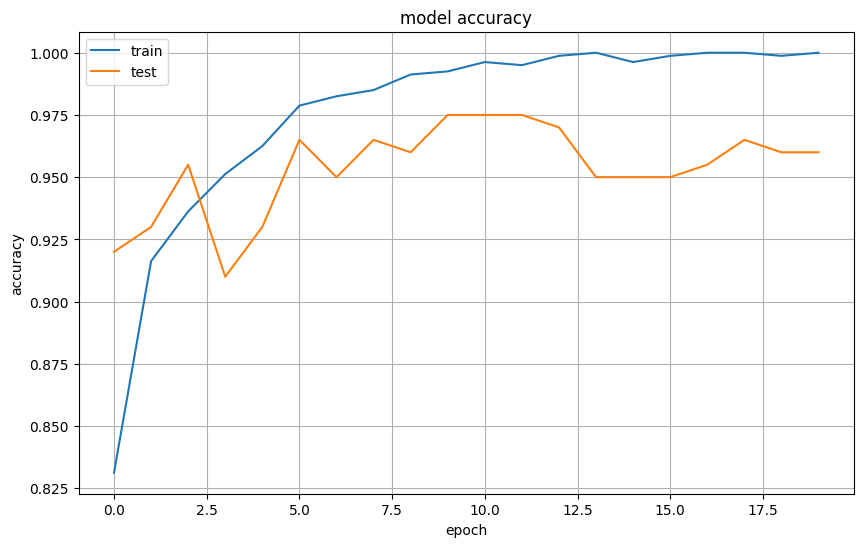
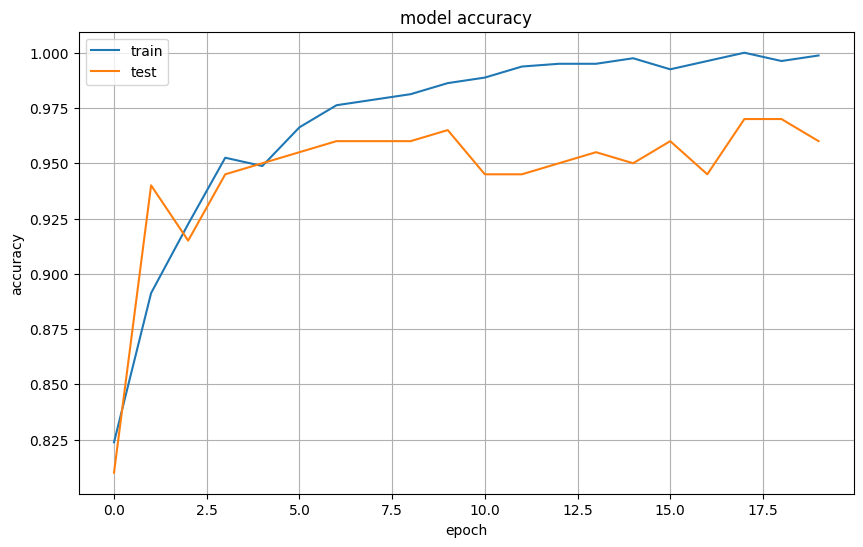
Add files via upload

diff --git a/violenceDetection.py b/violenceDetection.py
@@ -27,7 +27,7 @@ batch_size = 4   #4
 vid_len = 20   #10
 frame_size = 224
 
-preprocess_data = True  #######
+preprocess_data = False  #######
 split_number = 1   #[1,2,3,4,5,6]
 create_new_model = True  #######
 bestModelPath = '/gdrive/My Drive/THESIS/Data/' + str(dataset) + '_bestModel.h5'
@@ -68,9 +68,9 @@ else:
     print('got the model')
 print(model.summary())
 
-optimizer = RMSprop(lr=.0001)
+optimizer = RMSprop(lr=7e-05)
 model.compile(optimizer=optimizer, loss='binary_crossentropy',metrics=['acc'])
-modelcheckpoint = ModelCheckpoint(bestModelPath, monitor='loss', verbose=1, save_best_only=True, mode='auto', save_freq='epoch')    
+modelcheckpoint = ModelCheckpoint(bestModelPath, monitor='val_loss', verbose=1, save_best_only=True, mode='auto', save_freq='epoch')    
 
 history = model.fit(
         steps_per_epoch=len(train_generator),
@@ -82,8 +82,8 @@ history = model.fit(
         workers = 8,
         max_queue_size= 8,
         use_multiprocessing = False,
-        callbacks=[EarlyStopping(monitor='val_loss', min_delta=0.001, patience=15, ),
-                   ReduceLROnPlateau(monitor='val_loss', factor=0.5, patience=3, min_lr=1e-8, verbose=1),
+        callbacks=[EarlyStopping(monitor='val_loss', min_delta=0.001, patience=15 ),
+                   #ReduceLROnPlateau(monitor='val_loss', factor=0.5, patience=3, min_lr=1e-8, verbose=1),
                    modelcheckpoint
                    ]
         )

diff --git a/violenceDetection5Fold.py b/violenceDetection5Fold.py
@@ -8,13 +8,13 @@ from tensorflow.random import set_seed
 set_seed(42)
 from tensorflow.keras.callbacks import EarlyStopping, ReduceLROnPlateau, Callback, ModelCheckpoint
 from tensorflow.keras.optimizers import RMSprop, Adam
-from tensorflow.keras.models import load_model
-from tensorflow import set_random_seed  
+from tensorflow.keras.models import load_model 
 from datasetProcess import *
 from dataGenerator import *
 from utils import *
 import sepConvLstmNet
 import shutil
+import pickle
 
 dataset = 'hockey'
 dataset_videos = {'hockey':'raw_videos/hockey','movies':'raw_videos/movies'}
